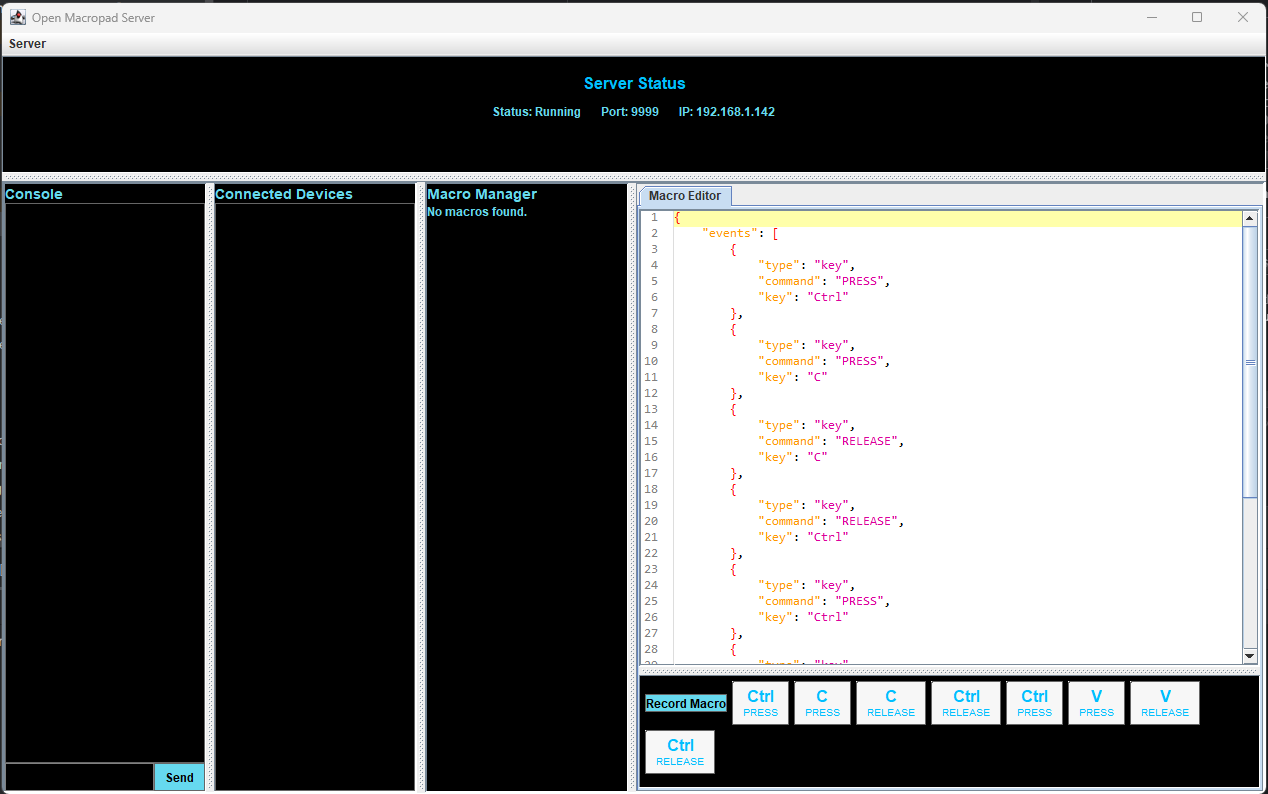
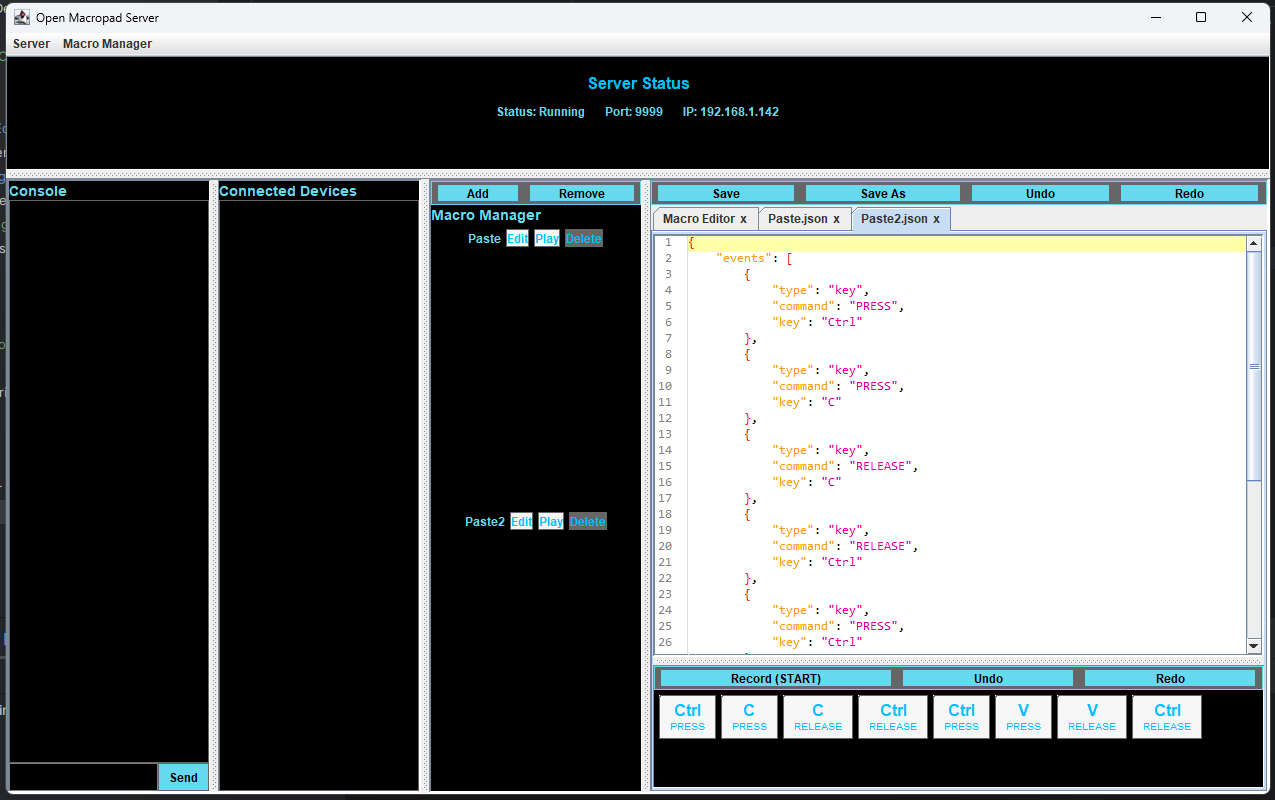
updated screenshot

Changed region(s): [[0.0, 0.0, 1.0, 1.0], [0.3691, 0.0907, 0.6151, 0.1511]]

diff --git a/README.md b/README.md
@@ -2,6 +2,15 @@
 
 A server application for the Open Macropad device, allowing users to record, manage, and execute macros.
 
+## Features
+
+*   **Macro Management**: Create, save, edit, and delete macros through a user-friendly interface.
+*   **Live Directory Watching**: The macro manager automatically updates when you add, remove, or change macro files on disk.
+*   **Editable Tab Titles**: Double-click a tab's title to rename it for better organization.
+*   **Intelligent Saving**: The application intelligently handles "Save" and "Save As" operations, using the tab title as a suggested filename and preventing accidental overwrites.
+*   **Batch Deletion**: Easily select and delete multiple macros at once.
+*   **Themed UI**: A modern, themed interface for a consistent look and feel.
+
 ## UI Structure
 
 The user interface is built using Java Swing and is organized into several key components:
@@ -14,9 +23,17 @@ The user interface is built using Java Swing and is organized into several key c
 
 *   **`ConnectedDevicesUI.kt`**: A panel that lists all the clients currently connected to the server.
 
-*   **`MacroManagerUI.kt`**: A panel for viewing, playing, editing, and deleting saved macro files (which are stored as `.json` files in the `macros/` directory).
+*   **`MacroManagerUI.kt`**: A powerful panel for managing your macros. It lists all available `.json` files from the macro directory (`Documents/OpenMacropadServer/Macros` by default). From here, you can:
+    *   **Edit**: Open a macro in a new tab.
+    *   **Delete**: Remove a single macro (with confirmation).
+    *   **Batch Delete**: Enter a selection mode to remove multiple macros at once.
 
-*   **`TabbedUI.kt`**: A container that holds different editor views in tabs.
+*   **`TabbedUI.kt`**: A container that holds different editor views in tabs. Each tab has a close button and an editable title.
     *   **`MacroJsonEditorUI.kt`**: The primary tab, which provides a text editor for viewing and editing the JSON structure of a macro. It also contains the `MacroBar`.
-    *   **`MacroBar.kt`**: A visual representation of the macro's steps, displayed as a sequence of items (`MacroKeyItem`, `MacroMouseItem`).
+    *   **`MacroBar.kt`**: A visual representation of the macro's steps, displayed as a sequence of items (`MacroKeyItem`, `MacroMouseItem`). It also features a toolbar with "Record", "Undo", and "Redo" buttons.
+
+*   **Toolbars**: The application features several toolbars for quick access to common actions:
+    *   **Macro Manager Toolbar**: "Add" and "Remove" buttons for managing macros.
+    *   **Editor Toolbar**: "Save", "Save As", "Undo", and "Redo" buttons for the active editor tab.
+
 ![Screen-Shot-Of-Application](image_url)
